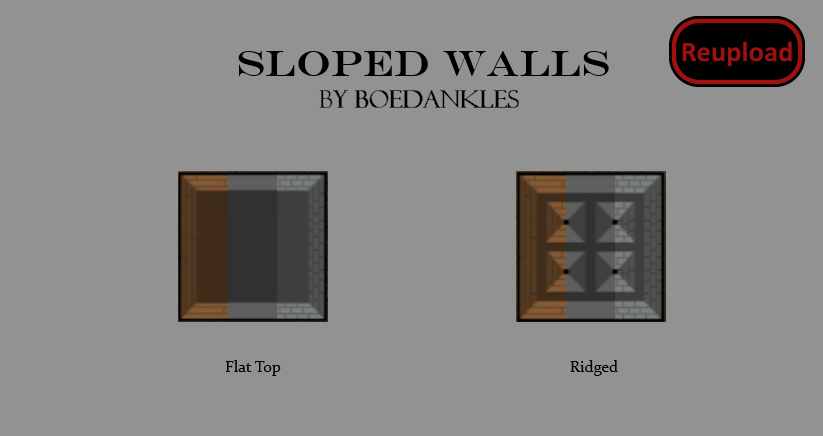
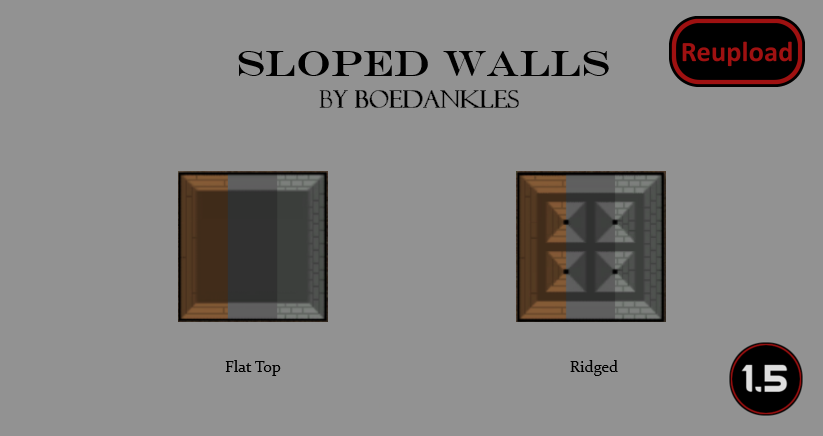
Mod updated for 1.5 and passed autotests

Changed region(s): [[0.8809, 0.7752, 1.0, 0.9541]]

diff --git a/README.md b/README.md
@@ -35,10 +35,13 @@ After more extensive testing, I've encountered an issue that may occur from usin
 
 -  See if the the error persists if you just have this mod and its requirements active.
 -  If not, try adding your other mods until it happens again.
--  Post your error-log using https://steamcommunity.com/workshop/filedetails/?id=818773962]HugsLib and command Ctrl+F12
+-  Post your error-log using https://steamcommunity.com/workshop/filedetails/?id=818773962]HugsLib or the standalone https://steamcommunity.com/sharedfiles/filedetails/?id=2873415404]Uploader and command Ctrl+F12
 -  For best support, please use the Discord-channel for error-reporting.
 -  Do not report errors by making a discussion-thread, I get no notification of that.
 -  If you have the solution for a problem, please post it to the GitHub repository.
+-  Use https://github.com/RimSort/RimSort/releases/latest]RimSort to sort your mods
 
 
+
+https://steamcommunity.com/sharedfiles/filedetails/changelog/2608883664]![Image](https://img.shields.io/github/v/release/emipa606/SlopedWalls?label=latest%20version&style=plastic&color=9f1111&labelColor=black)
 
